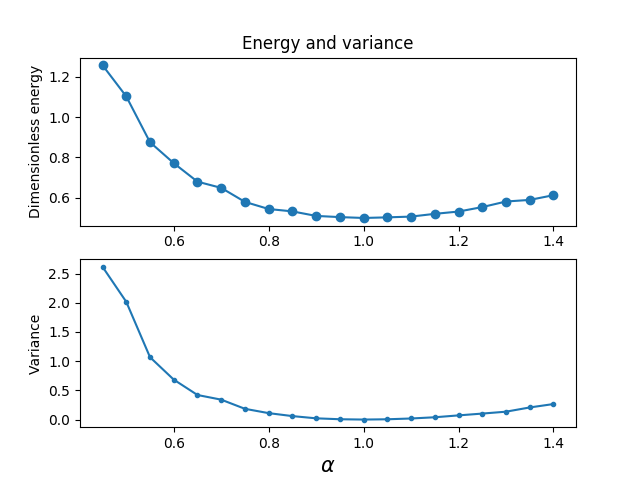
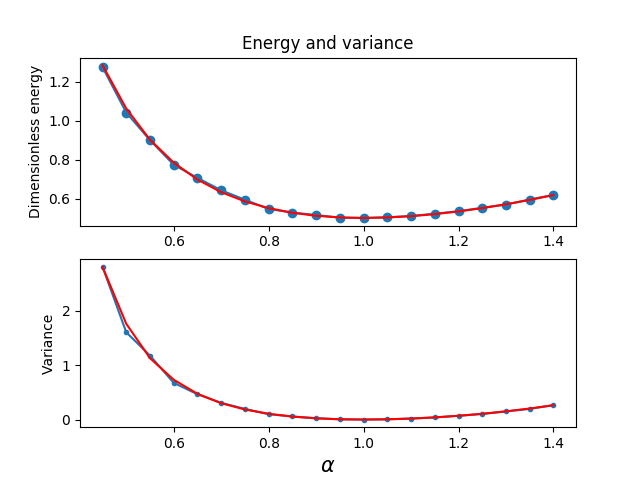
update on harmonic oscillator

diff --git a/doc/src/MCsummary/src/harmonic.py b/doc/src/MCsummary/src/harmonic.py
@@ -92,17 +92,22 @@ def MonteCarloSampling():
 #Here starts the main program with variable declarations
 MaxVariations = 20
 Energies = np.zeros((MaxVariations))
+ExactEnergies = np.zeros((MaxVariations))
+ExactVariance = np.zeros((MaxVariations))
 Variances = np.zeros((MaxVariations))
 AlphaValues = np.zeros(MaxVariations)
 (Energies, AlphaValues, Variances) = MonteCarloSampling()
 outfile.close()
+ExactEnergies = 0.25*(AlphaValues*AlphaValues+1.0/(AlphaValues*AlphaValues))
+ExactVariance = 0.25*(1.0+((1.0-AlphaValues**4)**2)*3.0/(4*(AlphaValues**4)))-ExactEnergies*ExactEnergies
+
 #simple subplot
 plt.subplot(2, 1, 1)
-plt.plot(AlphaValues, Energies, 'o-')
+plt.plot(AlphaValues, Energies, 'o-',AlphaValues, ExactEnergies,'r-')
 plt.title('Energy and variance')
 plt.ylabel('Dimensionless energy')
 plt.subplot(2, 1, 2)
-plt.plot(AlphaValues, Variances, '.-')
+plt.plot(AlphaValues, Variances, '.-',AlphaValues, ExactVariance,'r-')
 plt.xlabel(r'$\alpha$', fontsize=15)
 plt.ylabel('Variance')
 save_fig("VMCHarmonic")
@@ -110,7 +115,7 @@ plt.show()
 #nice printout with Pandas
 import pandas as pd
 from pandas import DataFrame
-data ={'Alpha':AlphaValues, 'Energy':Energies,'Variance':Variances}
+data ={'Alpha':AlphaValues, 'Energy':Energies,'Exact Energy':ExactEnergies,'Variance':Variances,'Exact Variance':ExactVariance,}
 frame = pd.DataFrame(data)
 print(frame)
 
